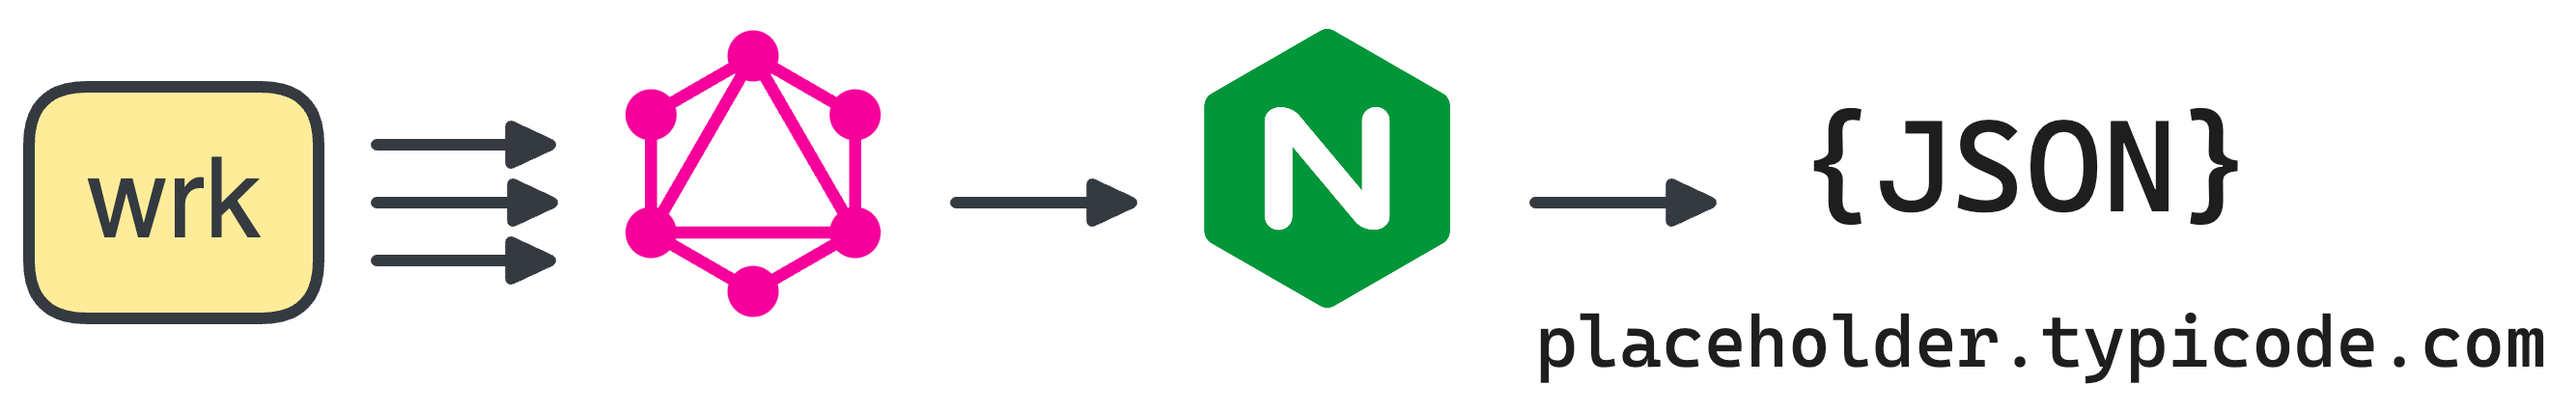
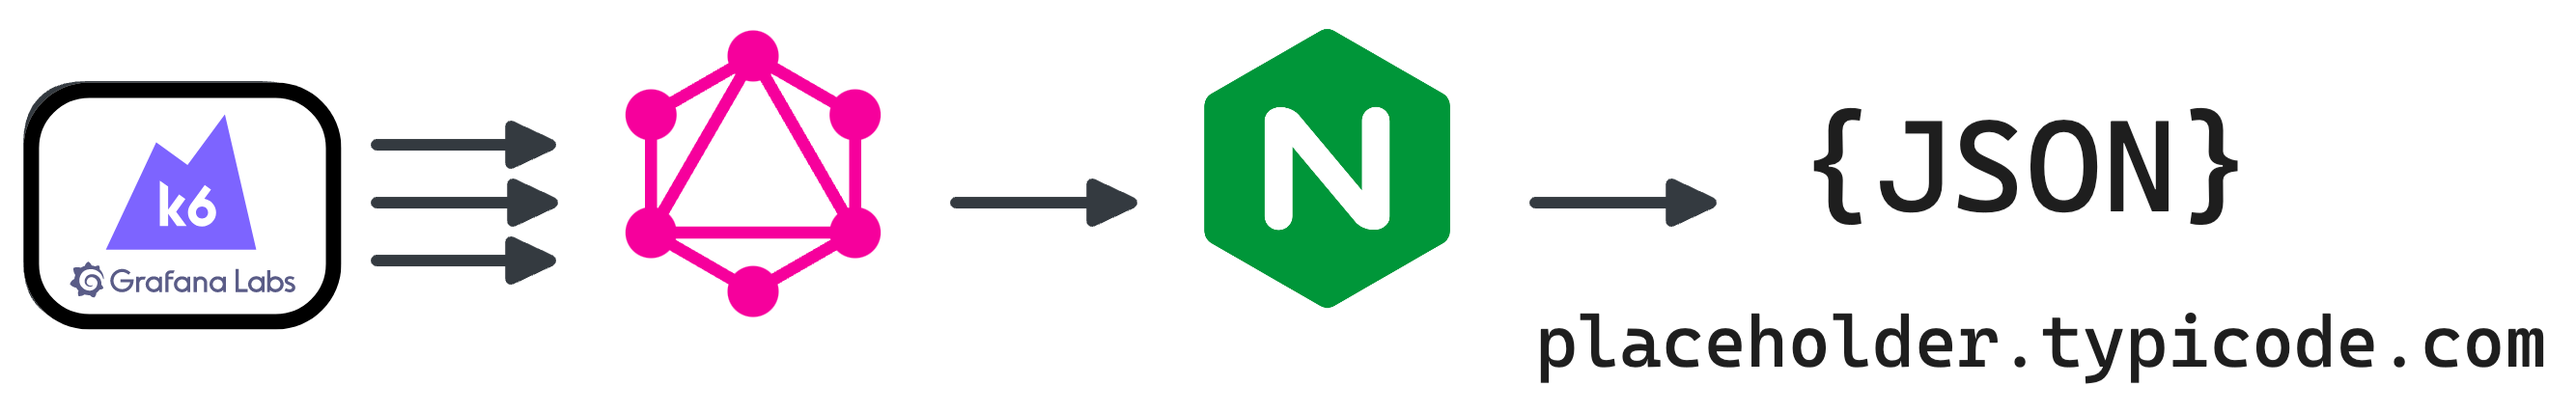
update readme

Changed region(s): [[0.0, 0.1827, 0.1555, 0.822]]

diff --git a/README.md b/README.md
@@ -10,7 +10,7 @@ Explore and compare the performance of the fastest GraphQL frameworks through ou
   - [Throughput (Higher is better)](#throughput-higher-is-better)
   - [Latency (Lower is better)](#latency-lower-is-better)
 - [Architecture](#architecture)
-  - [WRK](#wrk)
+  - [K6](#k6)
   - [GraphQL](#graphql)
   - [Nginx](#nginx)
   - [Jsonplaceholder](#jsonplaceholder)
@@ -117,11 +117,11 @@ Get started with the benchmarks:
 
 ![Architecture Diagram](assets/architecture.png)
 
-A client (`wrk`) sends requests to a GraphQL server to fetch post titles. The GraphQL server, in turn, retrieves data from an external source, `jsonplaceholder.typicode.com`, routed through the `nginx` reverse proxy.
+A client (`k6`) sends requests to a GraphQL server to fetch post titles. The GraphQL server, in turn, retrieves data from an external source, `jsonplaceholder.typicode.com`, routed through the `nginx` reverse proxy.
 
-### WRK
+### K6
 
-`wrk` serves as our test client, sending GraphQL requests at a high rate.
+`k6` serves as our test client, sending GraphQL requests at a high rate.
 
 ### GraphQL
 
